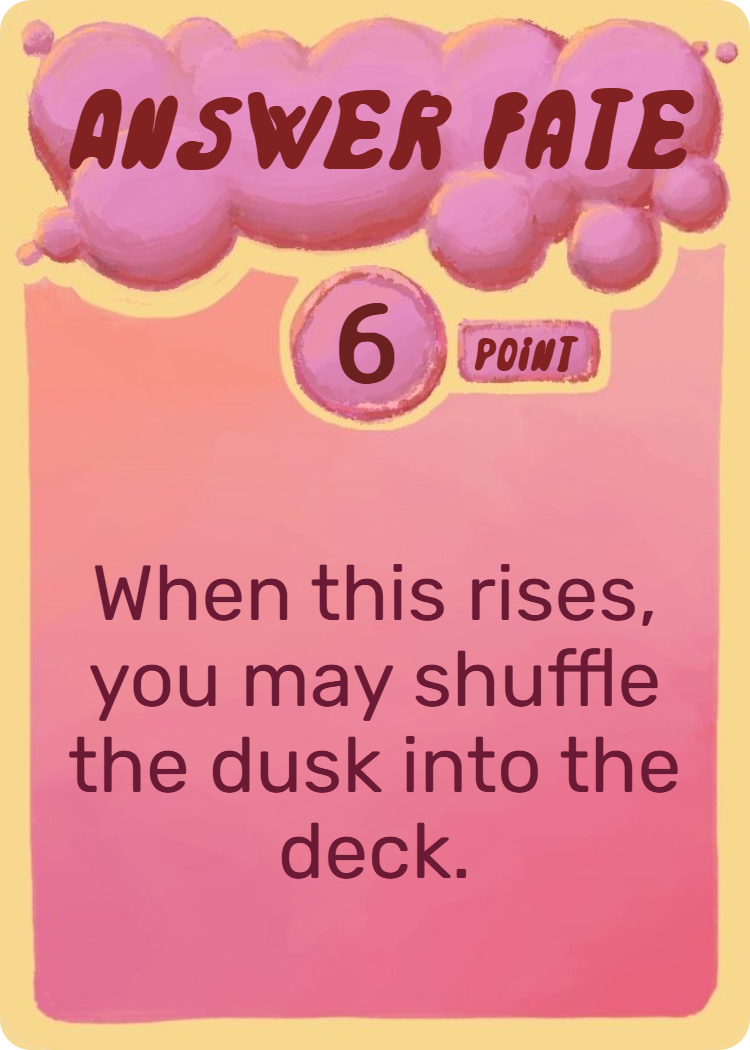
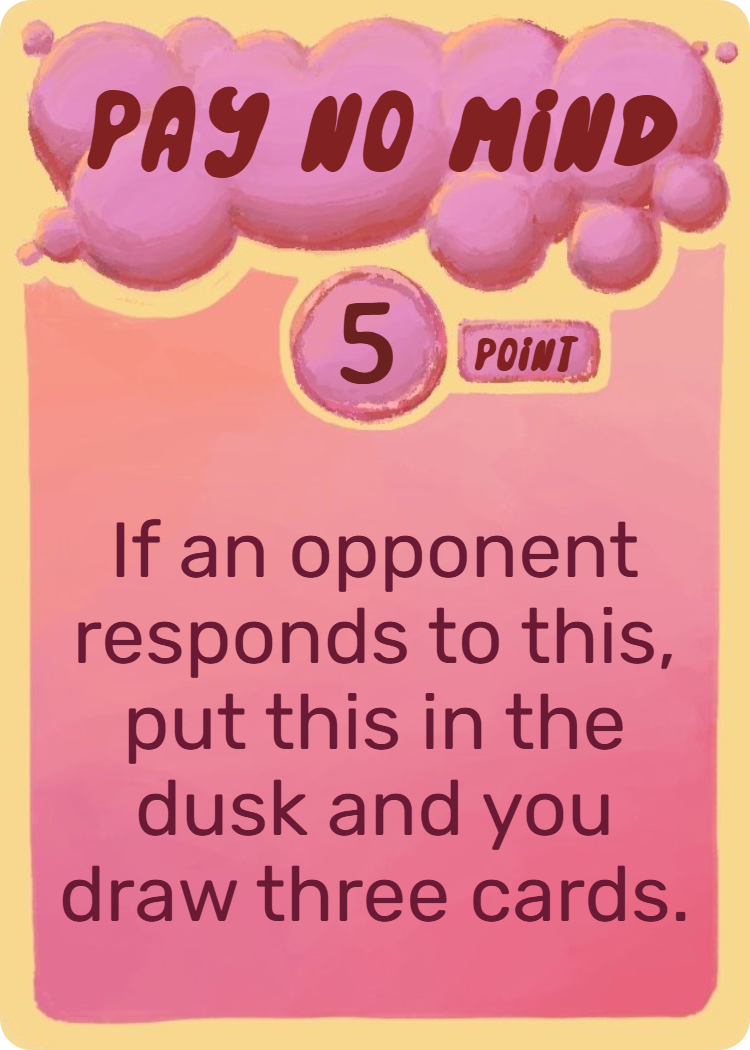
Redesign 047, 070 and 085 to match the new art [skip ci]
Answer Fate    -> Pay No Mind            point, 6 -> 5
Apprehend      -> Unrecognized Influence action, 4 -> 3
Share the Loot -> Beseech For Gains      action, 1 -> 4

Not renames: new costs and new text, so cards.json carries the rules and the
art is replaced. The export zip renumbers everything from 070 up (it drops the
retired card and appends the new one), but that is a quirk of the exporter —
102 of its 105 images are byte-identical to ours, which pins the mapping and
confirms the ids here are unchanged.

Two engine additions, both small:
- loseAllEnergy, for Beseech's "you lose all your energy". Everything else it
  needs already existed: duskHand, and opponentChoosesFromDusk (Reach Out to
  the Dark, count 5 instead of 2) which already clamps to a short dusk.
- an opponentRespondsToThis trigger may now carry an `effects` list, not just a
  single `effect`. Purity (044) dusks itself; Pay No Mind also draws three.

Unrecognized Influence needed nothing new — duskFromHorizon then
returnToControllerHand, and "another card" is free because the first target has
already left the horizon by the time the second is chosen.

Drops the threePerCardOnHorizon amount resolver; Share the Loot was its only
user. Answer Fate was the only card granting a 2-player reshuffle, so that
CLAUDE.md example is replaced and zero reshuffles is now unconditional.

Changed region(s): [[0.0613, 0.4876, 0.92, 0.8838], [0.092, 0.061, 0.92, 0.1829], [0.4293, 0.2743, 0.5213, 0.3657]]

diff --git a/tests/game.test.js b/tests/game.test.js
@@ -771,16 +771,58 @@ describe('Card effects', () => {
     expect(state.zones.deck).toHaveLength(deckBefore + 2);
   });
 
-  test('Answer Fate (047) reshuffles the dusk even though 2p normally gets none', () => {
+  test('Unrecognized Influence (070) dusks one horizon card, then bounces another', () => {
     const { state } = freshGame();
-    state.zones.deck = [];
-    state.zones.dusk = ['002', '004', '050'];
-    state.reshufflesRemaining = 0;
-    rise(state, '047');
-    expect(state.pendingChoice.type).toBe('optional');
-    resolveChoice(state, 'p1', { accept: true });
-    expect(state.zones.dusk).toHaveLength(0);
-    expect(state.zones.deck).toHaveLength(3);
+    state.zones.horizon.unshift(createHorizonEntry(POINT, 'p2'));   // to be dusked
+    state.zones.horizon.unshift(createHorizonEntry(ACTION_B, 'p2')); // to be bounced
+    rise(state, '070');
+
+    expect(state.pendingChoice.type).toBe('duskFromHorizon');
+    let idx = state.zones.horizon.findIndex(e => e.cardId === POINT);
+    resolveChoice(state, 'p1', { horizonIndex: idx });
+    expect(state.zones.dusk).toContain(POINT);
+
+    // Step two targets the horizon as it stands, so the dusked card is gone and
+    // "another card" needs no extra guard.
+    advancePendingChoices(state);
+    expect(state.pendingChoice.type).toBe('returnToControllerHand');
+    idx = state.zones.horizon.findIndex(e => e.cardId === ACTION_B);
+    resolveChoice(state, 'p1', { horizonIndex: idx });
+    expect(state.players.p2.hand).toContain(ACTION_B);
+    expect(state.zones.horizon.some(e => e.cardId === ACTION_B)).toBe(false);
+  });
+
+  test('Beseech For Gains (085) empties you out, then the opponent refills you', () => {
+    const { state } = freshGame();
+    state.players.p1.energy = 7;
+    state.players.p1.hand = ['002', '004', '050'];
+    state.zones.dusk = ['051', '052'];   // so the dusk can actually cover five
+    rise(state, '085');
+
+    expect(state.players.p1.energy).toBe(0);
+    expect(state.players.p1.hand).toHaveLength(0);
+    for (const id of ['002', '004', '050']) expect(state.zones.dusk).toContain(id);
+
+    // The opponent picks, the caster receives. Dusking your own hand is what
+    // makes five cards available in the first place.
+    expect(state.pendingChoice.type).toBe('opponentChoosesFromDusk');
+    expect(state.pendingChoice.player).toBe('p2');
+    expect(state.pendingChoice.count).toBe(5);
+    const picks = state.zones.dusk.slice(0, 5);
+    resolveChoice(state, 'p2', { cardIds: picks });
+    expect(state.players.p1.hand).toHaveLength(5);
+    for (const id of picks) expect(state.players.p1.hand).toContain(id);
+  });
+
+  test('Beseech For Gains (085) settles for a short dusk rather than stalling', () => {
+    const { state } = freshGame();
+    state.players.p1.hand = ['002'];
+    state.zones.dusk = [];
+    rise(state, '085');
+    // 085 itself plus the one dusked hand card is all there is to give back.
+    expect(state.pendingChoice.count).toBe(2);
+    resolveChoice(state, 'p2', { cardIds: [...state.zones.dusk].slice(0, 2) });
+    expect(state.players.p1.hand).toHaveLength(2);
   });
 
   test('Cerebral Snuff (091) dusks a random card from the opponent hand', () => {
@@ -1263,6 +1305,36 @@ describe('Cards that watch a departure', () => {
     state.activePlayer = 'p1';
     playCard(state, 'p1', ACTION);
     expect(state.zones.horizon.some(e => e.cardId === '044')).toBe(true);
+  });
+
+  test('Pay No Mind (047) dusks itself AND draws three when answered', () => {
+    const state = armed('047', 'p1');
+    state.players.p2.hand.push(ACTION);
+    state.activePlayer = 'p2';
+    const before = state.players.p1.hand.length;
+
+    playCard(state, 'p2', ACTION);
+
+    expect(state.zones.horizon.some(e => e.cardId === '047')).toBe(false);
+    expect(state.zones.dusk).toContain('047');
+    // The draw is the half Purity (044) does not have: it needs the trigger to
+    // run a list of effects rather than a single one.
+    expect(state.players.p1.hand.length).toBe(before + 3);
+  });
+
+  test('Pay No Mind (047) only fires when it is the card being answered', () => {
+    // "Responds to this" means the card directly beneath the one just played.
+    // Buried a layer down, 047 is not what the opponent answered, so it sits.
+    const state = armed('047', 'p1');
+    state.zones.horizon.unshift(createHorizonEntry(ACTION_B, 'p1'));
+    state.players.p2.hand.push(ACTION);
+    state.activePlayer = 'p2';
+    const before = state.players.p1.hand.length;
+
+    playCard(state, 'p2', ACTION);
+
+    expect(state.zones.horizon.some(e => e.cardId === '047')).toBe(true);
+    expect(state.players.p1.hand.length).toBe(before);
   });
 
   test('Understand Despair (064) draws two whenever your card leaves without rising', () => {

diff --git a/src/effects/executor.js b/src/effects/executor.js
@@ -601,6 +601,16 @@ function executeEffect(state, effect, controller, entry, ctx) {
 
     // ── Energy and hands ──────────────────────────────────────────────────────
 
+    case 'loseAllEnergy': {
+      // Beseech For Gains (085) — the cost of the card is paid before it rises,
+      // so this empties whatever is left over, not the price of the card itself.
+      const who = effect.player === 'opponent' ? opp : controller;
+      const lost = state.players[who].energy;
+      state.players[who].energy = 0;
+      events.push({ type: 'ENERGY_LOST', player: who, amount: lost });
+      break;
+    }
+
     case 'drainOpponentEnergy': {
       // Trickle Down Economics (027) — take whatever the opponent is holding.
       const drained = state.players[opp].energy;
@@ -747,9 +757,6 @@ function resolveAmount(state, amount, ctx) {
   }
   if (amount === 'distinctEnergyCostsOnHorizon') {   // Dividends (083)
     return new Set(state.zones.horizon.map(e => getCard(e.cardId).energyCost)).size;
-  }
-  if (amount === 'threePerCardOnHorizon') {           // Share the Loot (085)
-    return state.zones.horizon.length * 3;
   }
   if (amount === 'trackedCost') {                     // Burn Out (088), Strobe Brightness (102)
     return ctx.trackedCost ?? 0;

diff --git a/src/engine/game.js b/src/engine/game.js
@@ -114,7 +114,10 @@ export function playCard(state, playerId, cardId, context = {}) {
   if (respondedTo && controllerOf(respondedTo) !== playerId) {
     for (const se of getCard(respondedTo.cardId).staticEffects ?? []) {
       if (se.type === 'trigger' && se.on === 'opponentRespondsToThis') {
-        events.push(...executeEffectList(state, [se.effect], controllerOf(respondedTo), respondedTo));
+        // Purity (044) fires a single effect; Pay No Mind (047) dusks itself AND
+        // draws, so the trigger takes either one `effect` or an `effects` list.
+        const list = se.effects ?? [se.effect];
+        events.push(...executeEffectList(state, list, controllerOf(respondedTo), respondedTo));
       }
     }
   }

diff --git a/CLAUDE.md b/CLAUDE.md
@@ -71,7 +71,7 @@ npm run build
 # Game server (WebSocket) → ws://localhost:8080
 node src/index.js          # override port with: PORT=9000 node src/index.js
 
-# Tests (Node's built-in runner) — 78 tests, all passing
+# Tests (Node's built-in runner) — 125 tests, all passing
 npm test
 
 # Every card executes through the engine — expect 105/105, 0 issues
@@ -118,9 +118,11 @@ game in one and join via the shared room URL in the other.
 
 - Card ids are zero-padded strings `"000"`–`"104"` matching `public/cards/NNN.png`.
   `000`–`049` are points, `050`–`104` are actions.
-- **Card text beats the rules.** Where a card contradicts the rulebook it wins — Answer Fate
-  (047) grants a reshuffle a 2-player game normally never gets, and Strafe (006) / Forever
-  Borrow (036) are points playable in response. Encode the card, not the general rule.
+- **Card text beats the rules.** Where a card contradicts the rulebook it wins — Strafe (006)
+  and Forever Borrow (036) are points playable in response, and Pay No Mind (047) leaves the
+  horizon without ever rising. Encode the card, not the general rule. (Answer Fate, the old
+  047, was the one card that granted a 2-player reshuffle; it was replaced on 2026-08-31, so
+  no card grants one any more.)
 - Engine functions take `state` first and **return event arrays** describing what happened;
   the server broadcasts derived per-player projections. Don't mutate state outside the engine.
 - When adding a card mechanic, prefer extending the structured effect schema in `cards.json`
